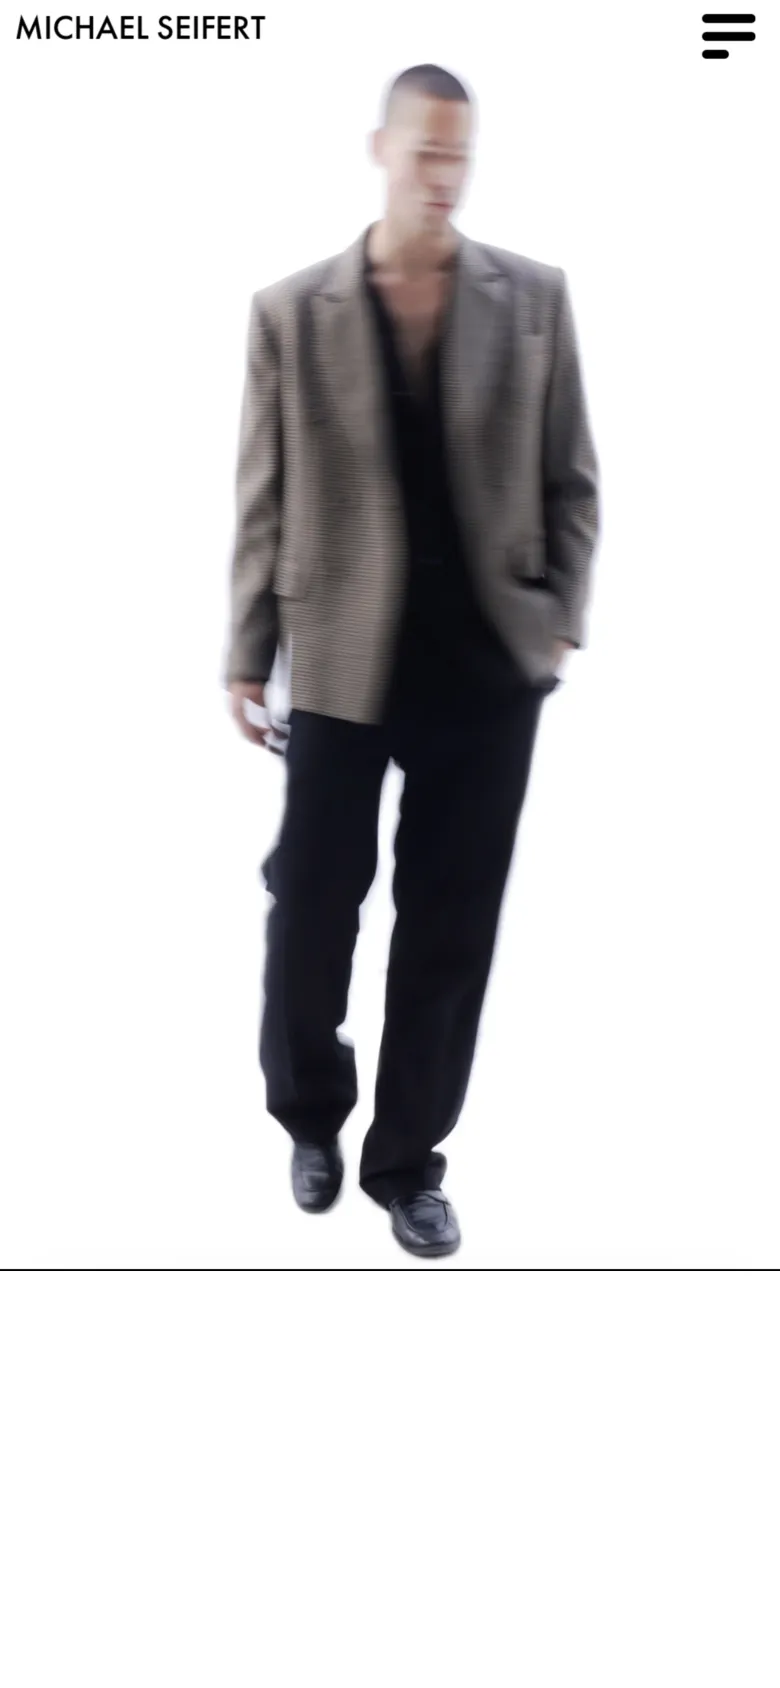
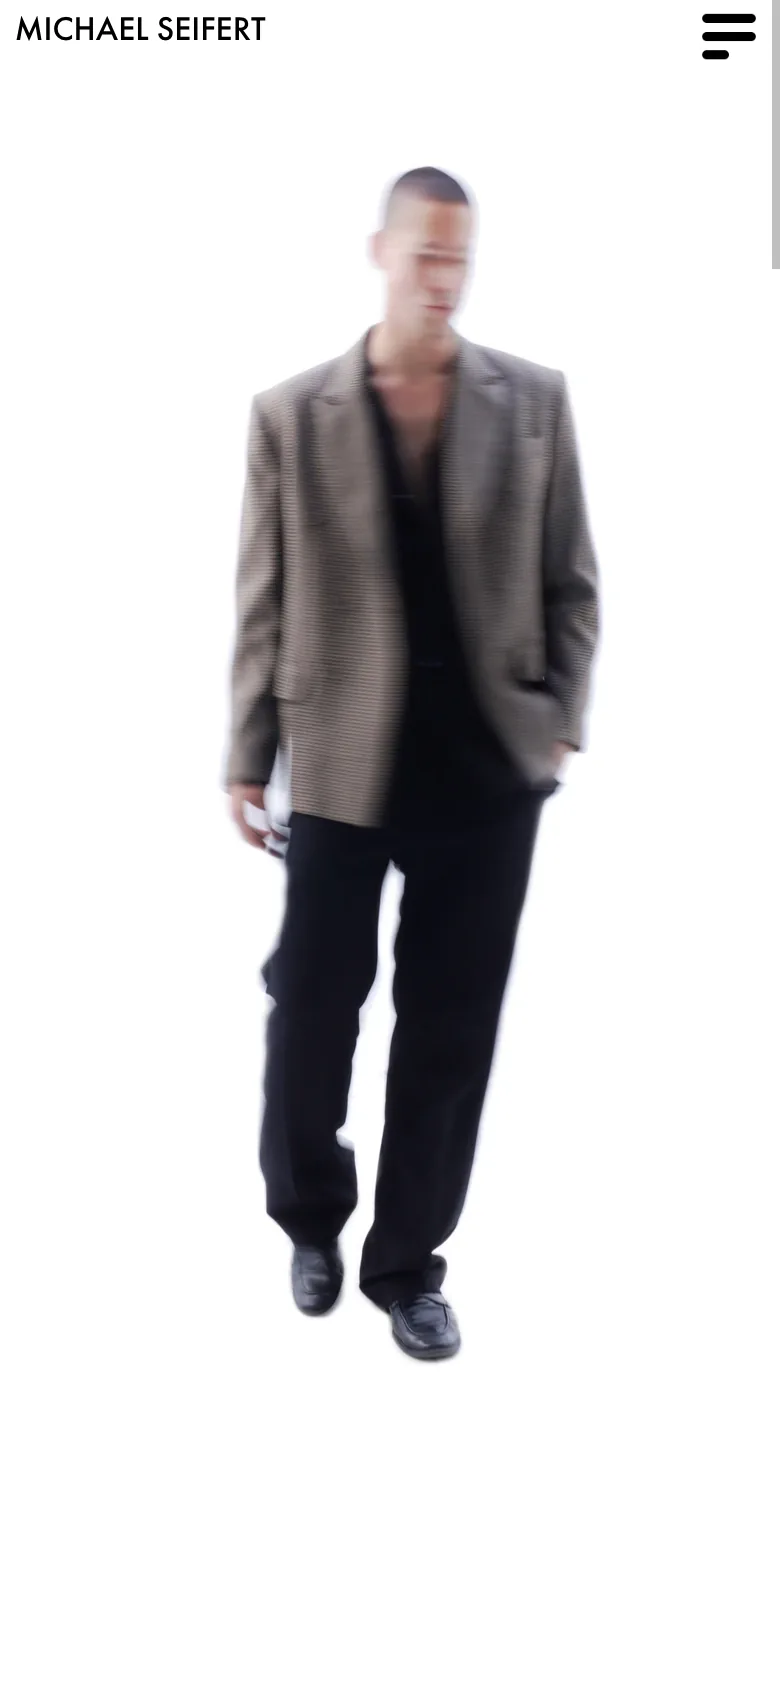
work: Seven links to the rebuild preview, new Seven and Seifert screenshots [skip netlify]

diff --git a/work.html b/work.html
@@ -46,7 +46,7 @@
     "hasPart": [
       { "@type": "CreativeWork", "name": "Michael Seifert website", "url": "https://michaelalexseifert.com" },
       { "@type": "CreativeWork", "name": "Saray Studio website", "url": "https://saraystudio.it" },
-      { "@type": "CreativeWork", "name": "Seven Management website", "url": "https://sevenmgmt.vip" },
+      { "@type": "CreativeWork", "name": "Seven Management website", "url": "https://drewneros.github.io/seven-mgmt/" },
       { "@type": "CreativeWork", "name": "Travisaro landing page", "url": "https://travisaro.app" }
     ]
   }
@@ -331,7 +331,7 @@
     <article class="case" id="seven">
       <div class="container">
         <div class="case-media">
-          <a class="frame frame-desktop" href="https://sevenmgmt.vip" target="_blank" rel="noopener" aria-label="Open sevenmgmt.vip in a new tab">
+          <a class="frame frame-desktop" href="https://drewneros.github.io/seven-mgmt/" target="_blank" rel="noopener" aria-label="Open the Seven Management site in a new tab">
             <img src="portfolio/seven-desktop.webp" alt="Seven Management website on desktop: serif headline over a dark, soft-focus backdrop" width="1440" height="900" loading="lazy" decoding="async" />
           </a>
           <div class="frame frame-phone" aria-hidden="true">
@@ -344,7 +344,7 @@
             <ul class="case-meta">
               <li>Events and hosting</li>
               <li>Singapore</li>
-              <li>Built in Framer</li>
+              <li>Hand-coded site</li>
             </ul>
           </div>
           <div>
@@ -353,7 +353,7 @@
               <p>"Couldn't be happier with the website Drew created for me. He completely understood the vibe I wanted and brought it to life perfectly."</p>
               <cite>Anastasia K., Founder</cite>
             </blockquote>
-            <a class="case-link" href="https://sevenmgmt.vip" target="_blank" rel="noopener">
+            <a class="case-link" href="https://drewneros.github.io/seven-mgmt/" target="_blank" rel="noopener">
               Visit site
               <svg width="14" height="14" viewBox="0 0 14 14" fill="none" aria-hidden="true"><path d="M4 10L10 4M10 4H5M10 4V9" stroke="currentColor" stroke-width="1.5" stroke-linecap="round" stroke-linejoin="round"/></svg>
             </a>
